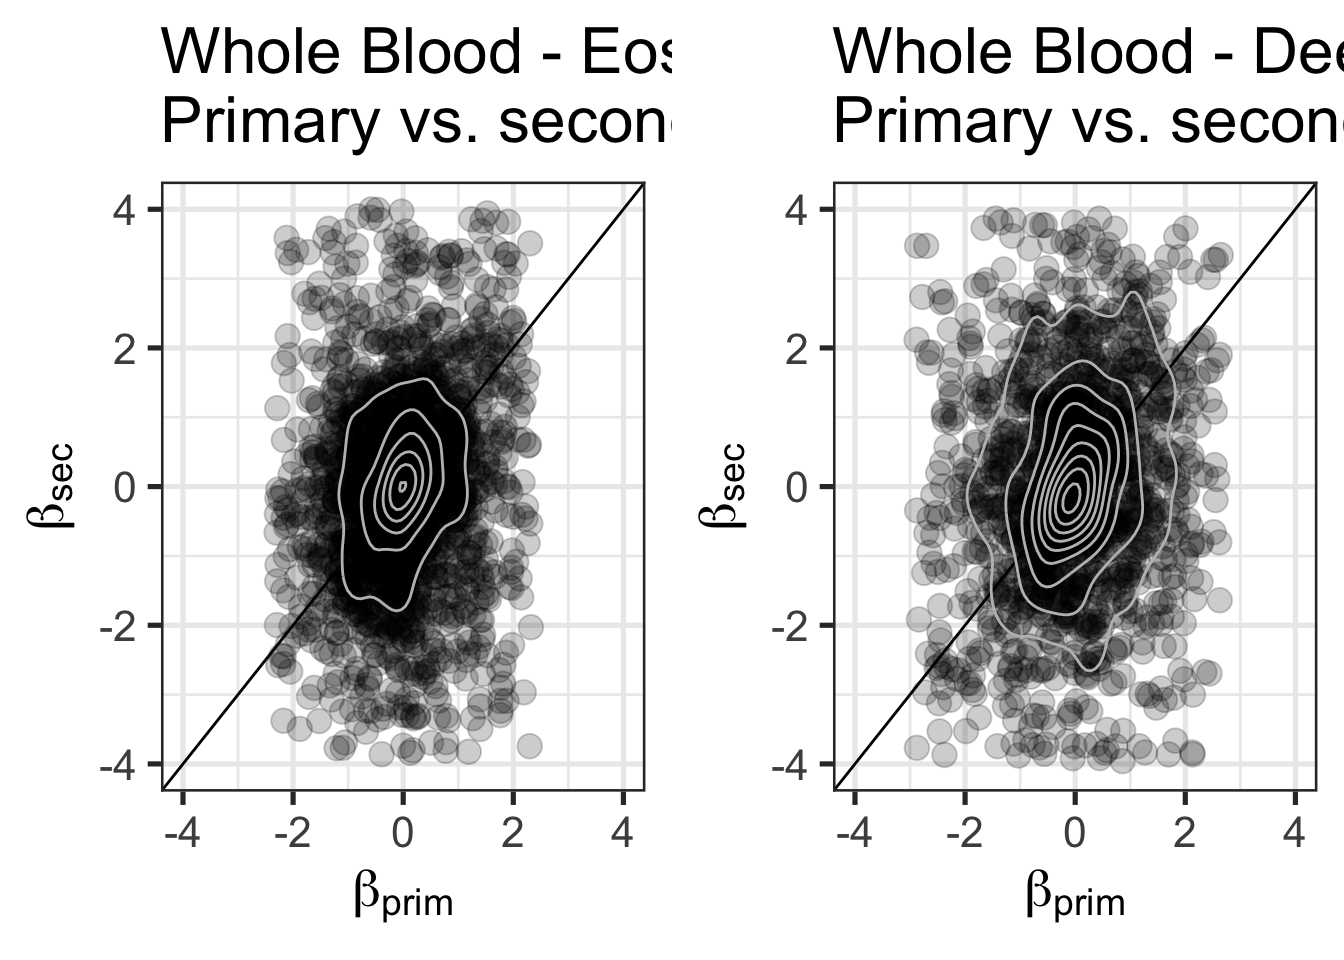
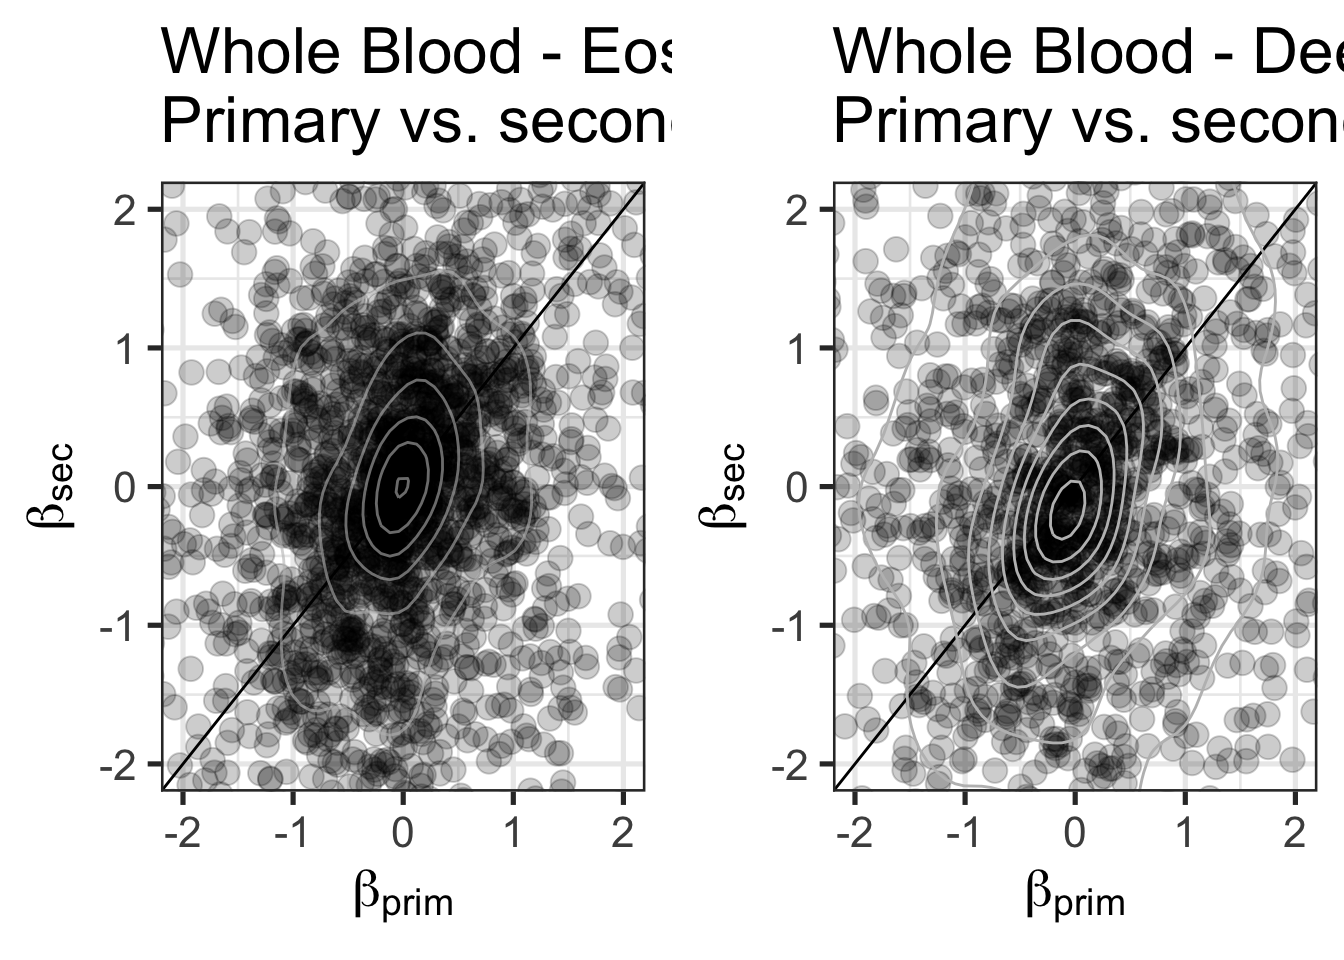
Build site.

diff --git a/docs/pvs_analysis.html b/docs/pvs_analysis.html
@@ -406,7 +406,7 @@ div.section {
 <div class="tab-content">
 <div id="summary" class="tab-pane fade in active">
 <p>
-<strong>Last updated:</strong> 2019-08-06
+<strong>Last updated:</strong> 2019-08-07
 </p>
 <p>
 <strong>Checks:</strong> <span class="glyphicon glyphicon-ok text-success" aria-hidden="true"></span> 6 <span class="glyphicon glyphicon-exclamation-sign text-danger" aria-hidden="true"></span> 1
@@ -542,16 +542,18 @@ environment
 <div class="panel panel-default">
 <div class="panel-heading">
 <p class="panel-title">
-<a data-toggle="collapse" data-parent="#workflowr-checks" href="#strongRepositoryversionstrongahrefhttpsgithubcomzjiang2betaprimvssecanalysistree7bd2afd681149880560d1907e4d31fd164a1457etargetblank7bd2afda"> <span class="glyphicon glyphicon-ok text-success" aria-hidden="true"></span> <strong>Repository version:</strong> <a href="https://github.com/zjiang2/beta_prim_vs_sec_analysis/tree/7bd2afd681149880560d1907e4d31fd164a1457e" target="_blank">7bd2afd</a> </a>
+<a data-toggle="collapse" data-parent="#workflowr-checks" href="#strongRepositoryversionstrongahrefhttpsgithubcomzjiang2betaprimvssecanalysistree2ebde8a30cfa4c3a4bb2cfe557a1878a554d4a6ctargetblank2ebde8aa"> <span class="glyphicon glyphicon-ok text-success" aria-hidden="true"></span> <strong>Repository version:</strong> <a href="https://github.com/zjiang2/beta_prim_vs_sec_analysis/tree/2ebde8a30cfa4c3a4bb2cfe557a1878a554d4a6c" target="_blank">2ebde8a</a> </a>
 </p>
 </div>
[2 lines of base64/hex data omitted]
 <div class="panel-body">
 <p>
 Great! You are using Git for version control. Tracking code development and connecting the code version to the results is critical for reproducibility. The version displayed above was the version of the Git repository at the time these results were generated. <br><br> Note that you need to be careful to ensure that all relevant files for the analysis have been committed to Git prior to generating the results (you can use <code>wflow_publish</code> or <code>wflow_git_commit</code>). workflowr only checks the R Markdown file, but you know if there are other scripts or data files that it depends on. Below is the status of the Git repository when the results were generated:
 </p>
 <pre><code>
 Ignored files:
+    Ignored:    .DS_Store
+    Ignored:    .Rhistory
     Ignored:    .Rproj.user/
 
 </code></pre>
@@ -591,6 +593,40 @@ Message
 </tr>
 </thead>
 <tbody>
+<tr>
+<td>
+Rmd
+</td>
+<td>
+<a href="https://github.com/zjiang2/beta_prim_vs_sec_analysis/blob/2ebde8a30cfa4c3a4bb2cfe557a1878a554d4a6c/analysis/pvs_analysis.Rmd" target="_blank">2ebde8a</a>
+</td>
+<td>
+zjiang2
+</td>
+<td>
+2019-08-07
+</td>
+<td>
+changed qqplot
+</td>
+</tr>
+<tr>
+<td>
+html
+</td>
+<td>
+<a href="https://rawcdn.githack.com/zjiang2/beta_prim_vs_sec_analysis/196f25d4e8c523b1479b4f4b7c06388196caa74d/docs/pvs_analysis.html" target="_blank">196f25d</a>
+</td>
+<td>
+zjiang2
+</td>
+<td>
+2019-08-06
+</td>
+<td>
+Build site.
+</td>
+</tr>
 <tr>
 <td>
 Rmd
@@ -731,7 +767,7 @@ pp1 &lt;- pp1 + geom_abline(slope=1,intercept=0)
 pp1 &lt;- pp1 + stat_density2d(color = &quot;grey&quot;, contour = TRUE)
 pp1 &lt;- pp1 + ggtitle(plot_title)
 pp1 &lt;- pp1 + xlab(expression(beta[prim])) + ylab(expression(beta[sec]))
-pp1 &lt;- pp1 + xlim(c(-0.06,0.06)) + ylim(c(-0.06,0.06))
+pp1 &lt;- pp1 + coord_cartesian(xlim=c(-0.06,0.06), ylim=c(-0.06,0.06))
 
 phenotype &lt;- &quot;UKB_20002_1094_self_reported_deep_venous_thrombosis_dvt&quot;
 df &lt;- readRDS(glue::glue(dapg_file_pattern))[[phenotype]]
@@ -756,7 +792,7 @@ pp2 &lt;- pp2 + geom_abline(slope=1,intercept=0)
 pp2 &lt;- pp2 + stat_density2d(color = &quot;grey&quot;, contour = TRUE)
 pp2 &lt;- pp2 + ggtitle(plot_title)
 pp2 &lt;- pp2 + xlab(expression(beta[prim])) + ylab(expression(beta[sec]))
-pp2 &lt;- pp2 + xlim(c(-0.06,0.06)) + ylim(c(-0.06,0.06))
+pp2 &lt;- pp2 + coord_cartesian(xlim=c(-0.06,0.06), ylim=c(-0.06,0.06))
 
 grid.arrange(pp1,pp2,nrow=1)</code></pre>
 <p><img src="figure/pvs_analysis.Rmd/unnamed-chunk-1-1.png" width="672" style="display: block; margin: auto;" /></p>
@@ -782,6 +818,17 @@ Date
 </tr>
 </thead>
 <tbody>
+<tr>
+<td>
+<a href="https://github.com/zjiang2/beta_prim_vs_sec_analysis/blob/196f25d4e8c523b1479b4f4b7c06388196caa74d/docs/figure/pvs_analysis.Rmd/unnamed-chunk-1-1.png" target="_blank">196f25d</a>
+</td>
+<td>
+zjiang2
+</td>
+<td>
+2019-08-06
+</td>
+</tr>
 <tr>
 <td>
 <a href="https://github.com/zjiang2/beta_prim_vs_sec_analysis/blob/2e2c9ab73f6080bde4eec1e50a6445372065a323/docs/figure/pvs_analysis.Rmd/unnamed-chunk-1-1.png" target="_blank">2e2c9ab</a>
@@ -820,10 +867,10 @@ pp1 &lt;- ggplot(df_2_eqtl, aes(rank1, rank2))
 pp1 &lt;- pp1 + geom_point(alpha=.2, size=4)
 pp1 &lt;- pp1 + theme_bw(base_size=20)
 pp1 &lt;- pp1 + geom_abline(slope=1,intercept=0)
-pp1 &lt;- pp1 + stat_density2d(color = &quot;grey&quot;, contour = TRUE)
+pp1 &lt;- pp1 + stat_density2d(color = alpha(&quot;grey&quot;,0.6), contour = TRUE)
 pp1 &lt;- pp1 + ggtitle(plot_title)
 pp1 &lt;- pp1 + xlab(expression(beta[prim])) + ylab(expression(beta[sec]))
-pp1 &lt;- pp1 + xlim(c(-2,2)) + ylim(c(-2,2))
+pp1 &lt;- pp1 + coord_cartesian(xlim=c(-2,2), ylim=c(-2,2))
 
 phenotype &lt;- &quot;UKB_20002_1094_self_reported_deep_venous_thrombosis_dvt&quot;
 df &lt;- readRDS(glue::glue(dapg_file_pattern))[[phenotype]]
@@ -850,7 +897,7 @@ pp2 &lt;- pp2 + geom_abline(slope=1,intercept=0)
 pp2 &lt;- pp2 + stat_density2d(color = &quot;grey&quot;, contour = TRUE)
 pp2 &lt;- pp2 + ggtitle(plot_title)
 pp2 &lt;- pp2 + xlab(expression(beta[prim])) + ylab(expression(beta[sec]))
-pp2 &lt;- pp2 + xlim(c(-2,2)) + ylim(c(-2,2))
+pp2 &lt;- pp2 + coord_cartesian(xlim=c(-2,2), ylim=c(-2,2))
 
 grid.arrange(pp1,pp2,nrow=1)</code></pre>
 <p><img src="figure/pvs_analysis.Rmd/unnamed-chunk-2-1.png" width="672" style="display: block; margin: auto;" /></p>
@@ -878,6 +925,17 @@ Date
 <tbody>
 <tr>
 <td>
+<a href="https://github.com/zjiang2/beta_prim_vs_sec_analysis/blob/196f25d4e8c523b1479b4f4b7c06388196caa74d/docs/figure/pvs_analysis.Rmd/unnamed-chunk-2-1.png" target="_blank">196f25d</a>
+</td>
+<td>
+zjiang2
+</td>
+<td>
+2019-08-06
+</td>
+</tr>
+<tr>
+<td>
 <a href="https://github.com/zjiang2/beta_prim_vs_sec_analysis/blob/2e2c9ab73f6080bde4eec1e50a6445372065a323/docs/figure/pvs_analysis.Rmd/unnamed-chunk-2-1.png" target="_blank">2e2c9ab</a>
 </td>
 <td>
@@ -893,9 +951,7 @@ zjiang2
 </div>
 <p>An interesting observation is that the variance of <span class="math inline">\(\beta_{sec}\)</span> is higher than that of <span class="math inline">\(\beta_{prim}\)</span>. This is obvious if you zoom out of both of the above graphs:</p>
 <pre class="r"><code>pp1 &lt;- pp1 + xlim(c(-4,4)) + ylim(c(-4,4))
-
 pp2 &lt;- pp2 + xlim(c(-4,4)) + ylim(c(-4,4))
-
 grid.arrange(pp1,pp2,nrow=1)</code></pre>
 <p><img src="figure/pvs_analysis.Rmd/unnamed-chunk-3-1.png" width="672" style="display: block; margin: auto;" /></p>
 <p>
@@ -922,6 +978,17 @@ Date
 <tbody>
 <tr>
 <td>
+<a href="https://github.com/zjiang2/beta_prim_vs_sec_analysis/blob/196f25d4e8c523b1479b4f4b7c06388196caa74d/docs/figure/pvs_analysis.Rmd/unnamed-chunk-3-1.png" target="_blank">196f25d</a>
+</td>
+<td>
+zjiang2
+</td>
+<td>
+2019-08-06
+</td>
+</tr>
+<tr>
+<td>
 <a href="https://github.com/zjiang2/beta_prim_vs_sec_analysis/blob/b97e93229bdab65e6e62842a8052dbd93991a730/docs/figure/pvs_analysis.Rmd/unnamed-chunk-3-1.png" target="_blank">b97e932</a>
 </td>
 <td>
@@ -935,10 +1002,48 @@ zjiang2
 </table>
 </div>
 </div>
-<p>Here is qqplot for one phenotype:</p>
+<p>This can be explained because <span class="math inline">\(\beta_{prim}\)</span> and <span class="math inline">\(\beta_{sec}\)</span> is determined by the SNP with the larger EQTL effect size being the primary and the smaller being the secondary and <span class="math inline">\({\beta}=\frac{GWASeffectsize}{EQTLeffectsize}\)</span></p>
+<p>Here is qqplot for Eosinophil Count:</p>
 <pre class="r"><code>qqplot(x=df_2_eqtl$rank1,y=df_2_eqtl$rank2,xlab=expression(beta[prim]),ylab=expression(beta[sec]),main=plot_title)
 abline(a=0,b=1,col=&quot;grey&quot;)</code></pre>
 <p><img src="figure/pvs_analysis.Rmd/unnamed-chunk-4-1.png" width="672" style="display: block; margin: auto;" /></p>
+<p>
+<button type="button" class="btn btn-default btn-xs btn-workflowr btn-workflowr-fig" data-toggle="collapse" data-target="#fig-unnamed-chunk-4-1">
+Past versions of unnamed-chunk-4-1.png
+</button>
+</p>
+<div id="fig-unnamed-chunk-4-1" class="collapse">
+<div class="table-responsive">
+<table class="table table-condensed table-hover">
+<thead>
+<tr>
+<th>
+Version
+</th>
+<th>
+Author
+</th>
+<th>
+Date
+</th>
+</tr>
+</thead>
+<tbody>
+<tr>
+<td>
+<a href="https://github.com/zjiang2/beta_prim_vs_sec_analysis/blob/196f25d4e8c523b1479b4f4b7c06388196caa74d/docs/figure/pvs_analysis.Rmd/unnamed-chunk-4-1.png" target="_blank">196f25d</a>
+</td>
+<td>
+zjiang2
+</td>
+<td>
+2019-08-06
+</td>
+</tr>
+</tbody>
+</table>
+</div>
+</div>
 <br>
 <p>
 <button type="button" class="btn btn-default btn-workflowr btn-workflowr-sessioninfo" data-toggle="collapse" data-target="#workflowr-sessioninfo" style="display: block;">
